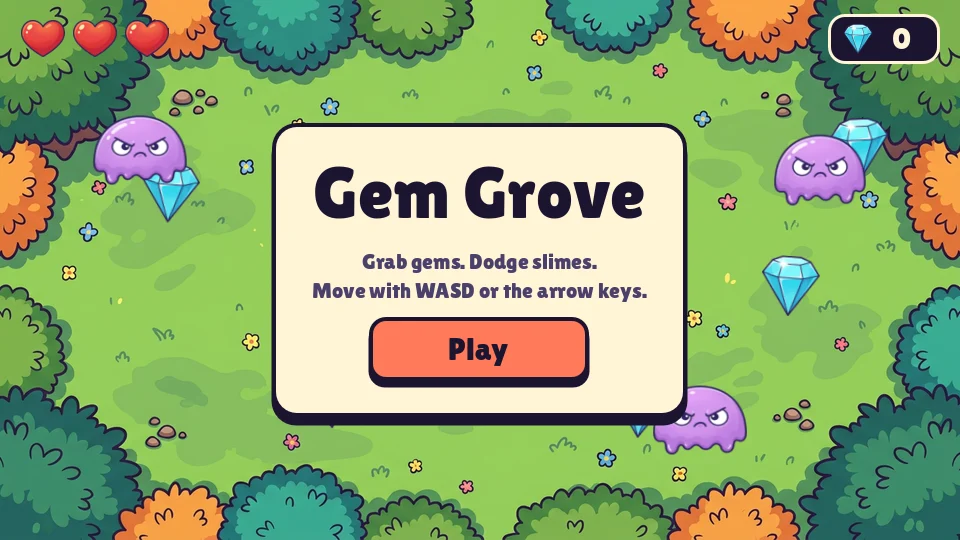
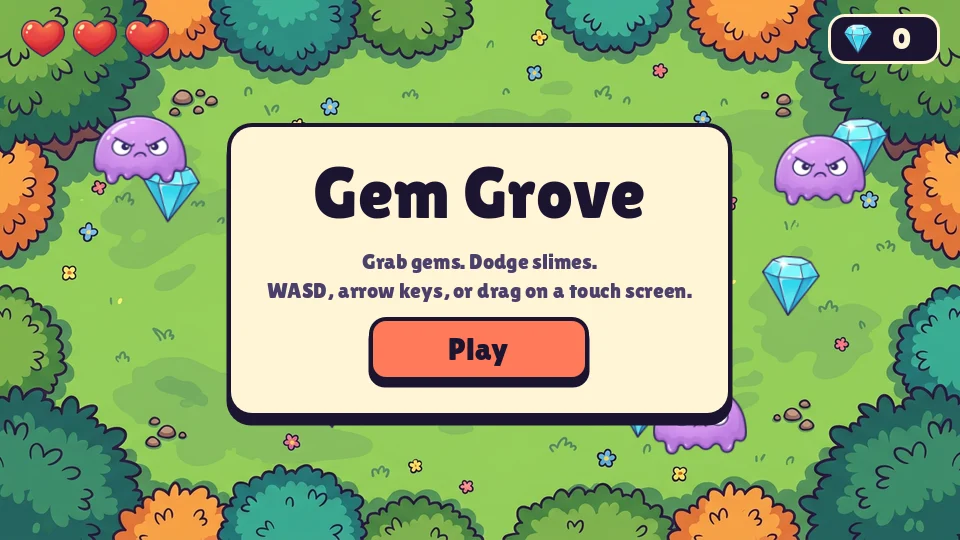
Add touch controls to the demo game and link the company site
The HUD gains Godot's VirtualJoystick, bound to the same four input
actions as the keyboard, so Gem Grove plays on a phone. The footer links
to unabated-games.com.

Changed region(s): [[0.2188, 0.2074, 0.7812, 0.8]]

diff --git a/site/templates/landing.html b/site/templates/landing.html
@@ -40,7 +40,7 @@
   {{ content }}
 </main>
 <footer class="site-footer">
-  <p>godot-cli is MIT licensed, from <a href="https://github.com/unabated-games">Unabated Games</a>. Godot and the Godot Engine logo are trademarks of the Godot Foundation; this project is not affiliated with the Godot Foundation or the Godot Engine project.</p>
+  <p>godot-cli is MIT licensed, made by <a href="https://www.unabated-games.com">Unabated Games</a>. Godot and the Godot Engine logo are trademarks of the Godot Foundation; this project is not affiliated with the Godot Foundation or the Godot Engine project.</p>
 </footer>
 <script src="{{ base_url }}/assets/site.js"></script>
 </body>

diff --git a/site/templates/base.html b/site/templates/base.html
@@ -47,7 +47,7 @@
   {{ toc }}
 </div>
 <footer class="site-footer">
-  <p>godot-cli is MIT licensed, from <a href="https://github.com/unabated-games">Unabated Games</a>. Godot and the Godot Engine logo are trademarks of the Godot Foundation; this project is not affiliated with the Godot Foundation or the Godot Engine project.</p>
+  <p>godot-cli is MIT licensed, made by <a href="https://www.unabated-games.com">Unabated Games</a>. Godot and the Godot Engine logo are trademarks of the Godot Foundation; this project is not affiliated with the Godot Foundation or the Godot Engine project.</p>
 </footer>
 <script src="{{ base_url }}/assets/site.js"></script>
 </body>

diff --git a/site/content/how-to/build-gem-grove.md b/site/content/how-to/build-gem-grove.md
@@ -82,13 +82,23 @@ One patch then places six gems, three slimes and the robot. Each line is an inst
 
 The HUD is built from two small widgets, a heart and a button, which are scenes with catalog entries of their own. The button's look is three `StyleBoxFlat` sub-resources and a font, all set on the node, so the editor shows it styled without running the game.
 
-`intents/hud.json` is the largest patch in the build. It adds 22 nodes under the HUD root in one write: the health row, the score, a title card and a game over card, with the two buttons instanced from the catalog and their `pressed` signals connected to the HUD script.
+`intents/hud.json` is the largest patch in the build. It adds 23 nodes under the HUD root in one write: the health row, the score, a touch joystick, a title card and a game over card, with the two buttons instanced from the catalog and their `pressed` signals connected to the HUD script.
 
 ```bash
 godot-cli scene apply gem-grove/ui/hud.tscn --patch intents/hud.json --project-root gem-grove
 godot-cli catalog add gem-grove/ui/hud.tscn --id ui/hud \
   --summary "Hearts, score, title card and game over card" --project-root gem-grove
 godot-cli scene apply gem-grove/main.tscn --patch intents/level_hud.json --project-root gem-grove
+```
+
+The joystick is Godot's own `VirtualJoystick` control, filling the screen and set to appear where a finger lands. Its four action properties name the same input actions the keyboard uses, so the player script needs nothing extra for a phone:
+
+```json
+{ "op": "node_add", "parent": "/root/HUD", "name": "Stick", "type": "VirtualJoystick",
+  "properties": { "anchors_preset": 15, "anchor_right": 1.0, "anchor_bottom": 1.0,
+    "joystick_mode": 1, "visibility_mode": 1,
+    "action_left": "&\"move_left\"", "action_right": "&\"move_right\"",
+    "action_up": "&\"move_up\"", "action_down": "&\"move_down\"" } }
 ```
 
 ![Hearts, a score counter and a title card over the clearing]({{ base_url }}/assets/demo/3-hud.webp)

diff --git a/site/content/index.md b/site/content/index.md
@@ -105,7 +105,7 @@ format: html
       </div><!-- /demo:still -->
       <div class="player-bar">
         <span class="keys"><kbd>W</kbd><kbd>A</kbd><kbd>S</kbd><kbd>D</kbd></span>
-        <span>or the arrow keys</span>
+        <span>or the arrow keys. On a phone, drag anywhere.</span>
         <!-- demo:play --><span class="note">Loads on click. About 10 MB the first time.</span><!-- /demo:play -->
         <!-- demo:still --><span class="note">The title screen, as godot-cli captured it.</span><!-- /demo:still -->
       </div>
@@ -145,7 +145,7 @@ scene apply main.tscn --patch</pre>
       <div class="stage-body">
         <span class="chip sun">Stage 3</span>
         <strong>A HUD you can open in the editor</strong>
-        <span>Hearts, score, title card and game over card: 22 nodes, fonts and style boxes in a single write.</span>
+        <span>Hearts, score, a touch joystick, title card and game over card: 23 nodes, fonts and style boxes in a single write.</span>
         <pre class="term">scene apply ui/hud.tscn --patch
 scene instance add --catalog-id</pre>
       </div>
